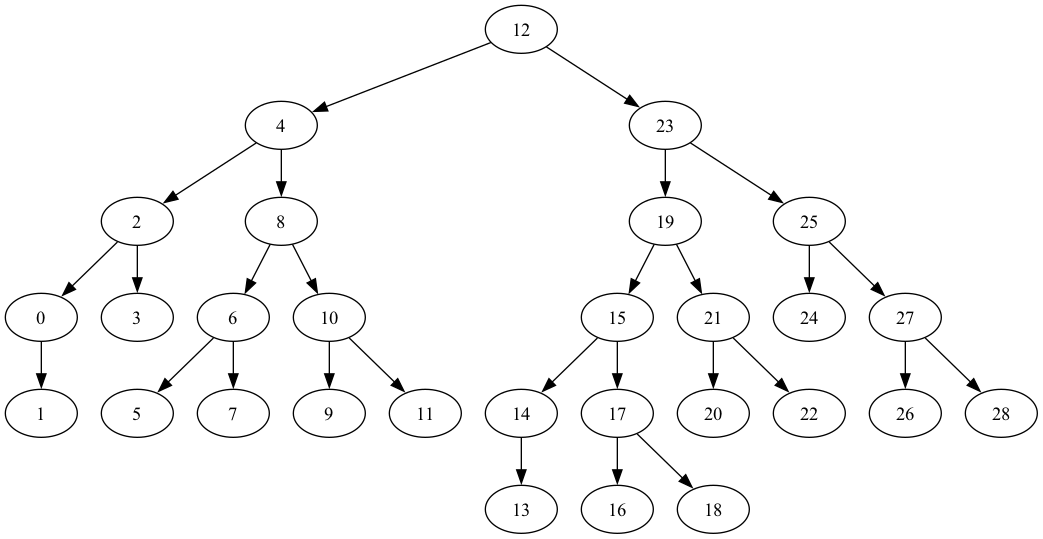
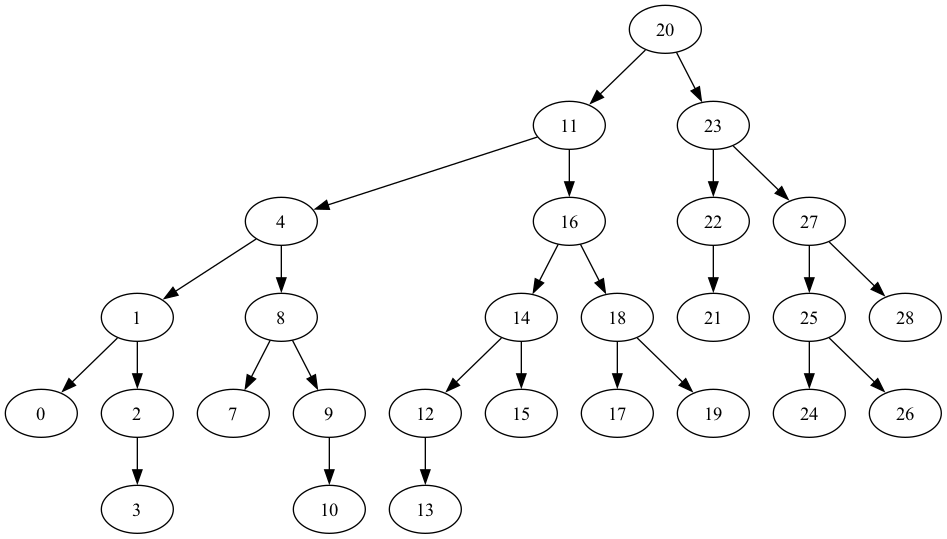
more avl

diff --git a/data_structures/AVL_tree/AVL_better.py b/data_structures/AVL_tree/AVL_better.py
@@ -106,3 +106,37 @@ class AVLTree():
         if node.left_node:
             return self.find_min(node=node.left_node)
         return node.value
+    
+    def delete(self, value):
+        self.root = self.delete_node(value, self.root)
+
+    def delete_node(self, value, node):
+        if node is None:
+            return None
+
+        if value < node.value:
+            node.left_node = self.delete_node(value, node.left_node)
+        elif value > node.value:
+            node.right_node = self.delete_node(value, node.right_node)
+        else:
+            # Case 1: Node has no children
+            if node.left_node is None and node.right_node is None:
+                del node
+                return None
+            # Case 2: Node has one child
+            elif node.left_node is None:
+                temp = node.right_node
+                del node
+                return temp
+            elif node.right_node is None:
+                temp = node.left_node
+                del node
+                return temp
+            # Case 3: Node has two children
+            else:
+                successor_value = self.find_min(node.right_node)
+                node.value = successor_value
+                node.right_node = self.delete_node(successor_value, node.right_node)
+
+        return self.rebalance(node)
+    

diff --git a/data_structures/AVL_tree/visualize.py b/data_structures/AVL_tree/visualize.py
@@ -14,6 +14,9 @@ for i in range(len(numbers)):
 
 print(tree.find_min())
 
+tree.delete(5)
+tree.delete(6)
+
 def visualize_AVL_tree(tree):
     # does not show frequency
 
